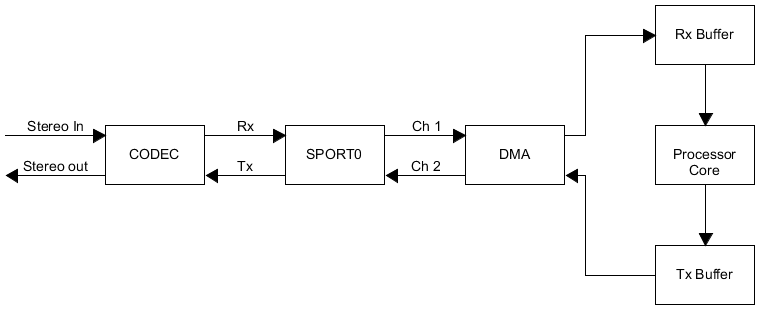
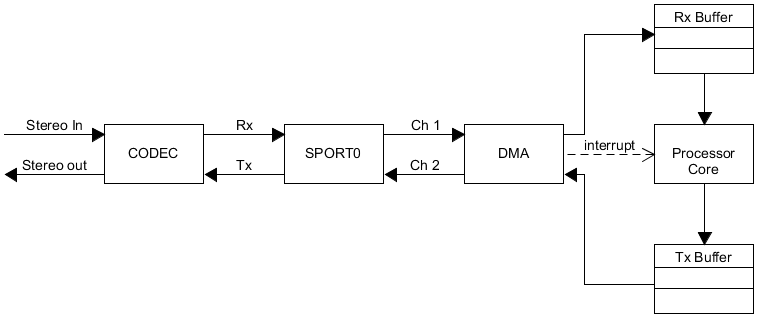
ændringer af struktur

diff --git a/Latex/Chapters/Struktur/Struktur.tex b/Latex/Chapters/Struktur/Struktur.tex
@@ -13,16 +13,19 @@ I dette projekt er der taget et valg udfra læringsmålene om at vi bruger Black
 	\label{fig:LMS_filter}
 \end{figure}
 
-Igennem processen af vores funktionalitet, sendes lydsignalet gennem en codec1836, som har til opgave at sende inputtet gennem en ADC, hvorefter den sender det digitale signal videre til SPORT0, som står for at forbinde de interne blokke, igennem dette projekt bruger vi den interne clock, hvor frekvensen kan beregnes ud fra formlen:
+Igennem processen af vores funktionalitet, sendes lydsignalet gennem en codec1836, som har til opgave at sende inputtet gennem en ADC, hvorefter den sender det digitale signal videre til SPORT0, som står for at modtage og sende dataen. Igennem dette projekt bruger vi den interne clock, hvor frekvensen kan beregnes ud fra formlen:
 
 \begin{figure}[H]
 	\centering
 	\includegraphics[width = 300pt]{Img/Frekvens}
 	\caption{Formel for clock frekvens}
-	\label{fig:LMS_filter}
+	\label{fig:clock_frek}
 \end{figure}
+
+DMA'en står for at sende dataen videre til Rx bufferen, når bufferen er fuld sender DMA'en interrupt til processeren om at procesere den modtagne data. \\
+I den modsatte retning bliver det proceserede data flyttet til Tx bufferen, når Tx bufferen er fuld, sendes det til SPORT0 via DMA'en med Ch 2. Igen styres hastigheden af den interne clock frekvens, hvor hastigheden kan beregnes fra figur \ref{fig:clock_frek}. 
+Til sidst bliver dataen samplet gennem CODEC, som konverterer til til et analogt signal vha. den en DAC.
   
-Systemet fører herefter signalet til DMA'en som står for at placerer dataen i de rigtige registre i memory. Herefter sker selve proceceringen af dataen, hvor vores funktionalitet er implementeret. Det filtrede og bearbejde signal sendes herefter den modsatte vej og kommer igennem alle blokke igen og ender som et analogt signal på udgangen. 
 
 \newpage
 

diff --git a/Latex/Chapters/Teori/Teori.tex b/Latex/Chapters/Teori/Teori.tex
@@ -4,7 +4,7 @@
 
 
 \section{Teori}
-I procceseringsfasen af projektet, har vi valgt at bruge et adaptivt filter - LMS (Least Mean square) algoritme. Et adaptivt filter består af 2 funktionelle blokke, hvor den ene blok fungerer som et filter, fra dynamiske kofficienter som bliver opdateret LMS blokken.  Filteret trækker herefter de beregnede filter fra det samlede lydsignal. 
+I procceseringsfasen af projektet, har vi valgt at bruge et adaptivt filter - LMS (Least Mean square) algoritme. LMS er et adaptivt filter som består af 2 funktionelle blokke, hvor den ene blok (Linear Filter) fungerer som et filter, det andet (Adaptive Algorithm) som et dynamisk beregner af nye koefficinter til første blok.  Filteret trækker herefter de beregnede filter fra det samlede lydsignal. 
    
 
 \begin{figure}[H]
